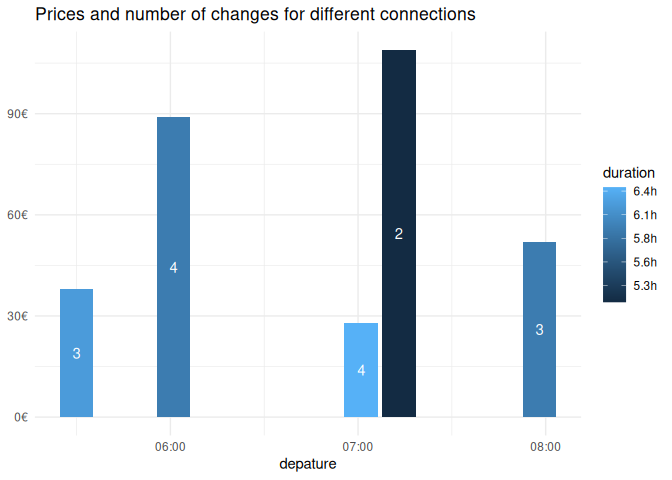
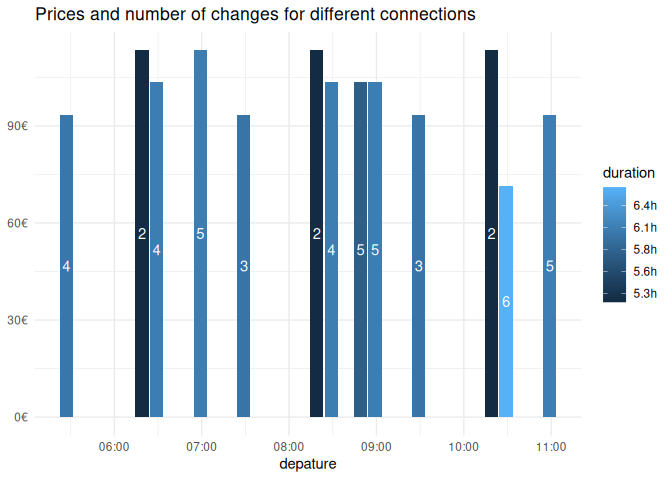
update vignette

diff --git a/README.md b/README.md
@@ -10,9 +10,13 @@ experimental](https://img.shields.io/badge/lifecycle-experimental-orange.svg)](h
 <!-- badges: end -->
 
 Just a small package that wraps the Fahrplan API of the German train
-company [db](https://www.bahn.de). The main idea is to be able to be
-able to cast your net a bit wider in cases when you are flexible to go
-on a different hour, day, or week.
+company [db](https://www.bahn.de). The main idea is to be able to cast
+your net a bit wider in cases when you are flexible to go on a different
+hour, day, or week.
+
+**Note: I do not have time to actively develop this package. It should
+be seen as a prototype. If you want to take it over as maintainer to
+develop it futher, let me know**
 
 ## Installation
 
@@ -38,33 +42,34 @@ Wiesbaden and Amsterdam:
 
 ``` r
 library(zugr)
-wi <- search_station("Wiesbaden")
+wi <- search_station("Wiesbaden, Manteuffelstr. 5")
 wi
 #> # A tibble: 10 × 2
-#>    name                   id                                                    
-#>    <chr>                  <chr>                                                 
-#>  1 Wiesbaden Hbf          A=1@O=Wiesbaden Hbf@X=8243729@Y=50070788@U=80@L=80002…
-#>  2 Wiesbaden-Mainz-Kast   A=1@O=Wiesbaden-Mainz-Kast@X=8283173@Y=50006578@U=80@…
-#>  3 Wiesbaden-Auringen-M   A=1@O=Wiesbaden-Auringen-M@X=8332092@Y=50113604@U=80@…
-#>  4 Wiesbaden-Erbenheim    A=1@O=Wiesbaden-Erbenheim@X=8295048@Y=50054410@U=80@L…
-#>  5 Wiesbaden Ost          A=1@O=Wiesbaden Ost@X=8256295@Y=50041411@U=80@L=80064…
-#>  6 Wiesbaden-Biebrich     A=1@O=Wiesbaden-Biebrich@X=8236420@Y=50048827@U=80@L=…
-#>  7 Wiesbaden-Igstadt      A=1@O=Wiesbaden-Igstadt@X=8325638@Y=50082582@U=80@L=8…
-#>  8 Wiesbaden-Schierstein  A=1@O=Wiesbaden-Schierstein@X=8194602@Y=50047587@U=80…
-#>  9 Wiesbaden-Chausseehaus A=1@O=Wiesbaden-Chausseehaus@X=8168794@Y=50097765@U=8…
-#> 10 Wiesbaden-Biebr. KD    A=1@O=Wiesbaden-Biebr. KD@X=8236600@Y=50036234@U=80@L…
+#>    name                                        id                               
+#>    <chr>                                       <chr>                            
+#>  1 Wiesbaden, Manteuffelstraße 5               A=2@O=Wiesbaden, Manteuffelstraß…
+#>  2 Wiesbaden, Scheffelstraße 5                 A=2@O=Wiesbaden, Scheffelstraße …
+#>  3 Wiesbaden - Delkenheim, Eifelstraße 5       A=2@O=Wiesbaden - Delkenheim, Ei…
+#>  4 Wiesbaden - Mainz-Kostheim, Teufelssprung 5 A=2@O=Wiesbaden - Mainz-Kostheim…
+#>  5 Wiesbaden, Reichsapfelstraße 5              A=2@O=Wiesbaden, Reichsapfelstra…
+#>  6 Wiesbaden, Teufelsgraben                    A=2@O=Wiesbaden, Teufelsgraben@X…
+#>  7 Wiesbaden, Scheffelstuben (Gastronomie)     A=4@O=Wiesbaden, Scheffelstuben …
+#>  8 Wiesbaden, Eifelstraße                      A=2@O=Wiesbaden, Eifelstraße@X=8…
+#>  9 Bad Kreuznach, Manteuffelstraße 4           A=2@O=Bad Kreuznach, Manteuffels…
+#> 10 Scheffelstraße, Wiesbaden                   A=1@O=Scheffelstraße, Wiesbaden@…
 ```
 
 The first one is what I need! Now Amsterdam. Here I don’t need as many
 options:
 
 ``` r
-adam <- search_station("Amsterdam", n_res = 1)
+adam <- search_station("Amsterdam", n_res = 2)
 adam
-#> # A tibble: 1 × 2
-#>   name                         id                                               
-#>   <chr>                        <chr>                                            
-#> 1 Amsterdam Airport (Schiphol) A=1@O=Amsterdam Airport (Schiphol)@X=4761487@Y=5…
+#> # A tibble: 2 × 2
+#>   name                       id                                                 
+#>   <chr>                      <chr>                                              
+#> 1 Amsterdam Centraal         A=1@O=Amsterdam Centraal@X=4899427@Y=52379191@U=80…
+#> 2 Amsterdam, Centaurusstraat A=2@O=Amsterdam, Centaurusstraat@X=4884163@Y=52414…
 ```
 
 Now I can make a search for next Tuesday Morning (as of writing this):
@@ -73,19 +78,24 @@ Now I can make a search for next Tuesday Morning (as of writing this):
 next_tuesday <- bahn_search(
   from = wi$id[1],
   to = adam$id[1],
-  start = "2023-10-03T05:00:00",
-  end =  "2023-10-03T19:00:00"
+  start = "2024-01-30T05:00:00",
+  end =  "2024-01-30T19:00:00"
 )
 next_tuesday
-#> # A tibble: 6 × 6
-#>   id         duration             price changes start              
-#>   <chr>      <Duration>           <dbl>   <int> <dttm>             
-#> 1 b88e588e_3 22440s (~6.23 hours)  37.9       3 2023-10-03 05:30:00
-#> 2 78b5d1d5_3 20760s (~5.77 hours)  NA         2 2023-10-03 06:13:00
-#> 3 ef00cd9f_3 21360s (~5.93 hours)  88.9       4 2023-10-03 06:01:00
-#> 4 f944674b_3 18300s (~5.08 hours) 109.        2 2023-10-03 07:13:00
-#> 5 65959c56_3 23160s (~6.43 hours)  27.9       4 2023-10-03 07:01:00
-#> 6 0893b3bf_3 21360s (~5.93 hours)  51.9       3 2023-10-03 07:58:00
+#> # A tibble: 28 × 6
+#>    id         duration             price changes start              
+#>    <chr>      <Duration>           <dbl>   <int> <dttm>             
+#>  1 4934becd_3 21720s (~6.03 hours)  93.4       4 2024-01-30 05:27:00
+#>  2 a2c0662a_3 18600s (~5.17 hours) 113.        2 2024-01-30 06:19:00
+#>  3 bfacedce_3 21960s (~6.1 hours)  103.        4 2024-01-30 06:29:00
+#>  4 6ee9a9d4_3 23760s (~6.6 hours)   67.4       5 2024-01-30 06:29:00
+#>  5 2fc08538_3 21960s (~6.1 hours)  113.        5 2024-01-30 06:59:00
+#>  6 86175a2c_3 21600s (~6 hours)     93.4       3 2024-01-30 07:29:00
+#>  7 a21cc91e_3 18600s (~5.17 hours) 113.        2 2024-01-30 08:19:00
+#>  8 e62269ec_3 21960s (~6.1 hours)  103.        4 2024-01-30 08:29:00
+#>  9 e7e3e886_3 23760s (~6.6 hours)   71.4       6 2024-01-30 08:29:00
+#> 10 5466ce48_3 20760s (~5.77 hours) 103.        5 2024-01-30 08:49:00
+#> # ℹ 18 more rows
 #> # ℹ 1 more variable: end <dttm>
 ```
 
@@ -101,13 +111,14 @@ library(tidyverse)
 next_tuesday |> 
   slice_min(price, n = 1) |> 
   select(-id)
-#> # A tibble: 1 × 5
-#>   duration             price changes start               end                
-#>   <Duration>           <dbl>   <int> <dttm>              <dttm>             
-#> 1 23160s (~6.43 hours)  27.9       4 2023-10-03 07:01:00 2023-10-03 13:14:00
+#> # A tibble: 2 × 5
+#>   duration            price changes start               end                
+#>   <Duration>          <dbl>   <int> <dttm>              <dttm>             
+#> 1 23760s (~6.6 hours)  67.4       5 2024-01-30 06:29:00 2024-01-30 13:05:00
+#> 2 23760s (~6.6 hours)  67.4       6 2024-01-30 12:29:00 2024-01-30 19:05:00
 ```
 
-With 4 connections and more than 6 hours, this is a rather terrible
+With 5 connections and more than 6 hours, this is a rather terrible
 connections. It is cheap though. Let’s see s quick visualisation
 instead:
 
@@ -115,7 +126,9 @@ instead:
 next_tuesday |> 
   # some connections include trains from different companies, the prices for
   # these are not oncluded
-  filter(!is.na(price)) |>
+  filter(!is.na(price),
+         !duplicated(start),
+         start < "2024-01-30 11:00:00") |>
   ggplot(aes(x = start, y = price, label = changes, fill = duration)) +
   geom_col() +
   geom_text(aes(y = price / 2), colour = "white") +
@@ -129,3 +142,72 @@ next_tuesday |>
 <img src="man/figures/README-unnamed-chunk-5-1.png" width="100%" />
 
 With more data, this gets a little more interesting.
+
+``` r
+february <- bahn_search(
+  from = wi$id[1],
+  to = adam$id[1],
+  start = "2024-02-01T00:00:00",
+  end =  "2024-03-01T23:59:59"
+)
+```
+
+Let’s see which days would be especially cheap:
+
+``` r
+february |> 
+  mutate(date = as.Date(start)) |> 
+  group_by(date) |> 
+  slice_min(price, n = 1) |> 
+  ggplot(aes(x = date, y = price)) +
+  geom_col() +
+  labs(x = NULL, y = NULL, 
+       title = "Cheapest price per day") +
+  scale_y_continuous(labels = function(x) paste0(x, "€")) +
+  theme_minimal()
+```
+
+<img src="man/figures/README-unnamed-chunk-8-1.png" width="100%" />
+
+This is all nice, but let’s only take into account connections I would
+actually consider:
+
+``` r
+february |> 
+  filter(changes <= 3) |> 
+  mutate(date = as.Date(start),
+         hour(start) > 5) |> 
+  group_by(date) |> 
+  slice_min(price, n = 1) |> 
+  ggplot(aes(x = date, y = price)) +
+  geom_col() +
+  labs(x = NULL, y = NULL, 
+       title = "Cheapest price per day with <= 3 changes") +
+  scale_y_continuous(labels = function(x) paste0(x, "€")) +
+  theme_minimal()
+```
+
+<img src="man/figures/README-unnamed-chunk-9-1.png" width="100%" />
+
+It also looks like historic searches are possible.
+
+``` r
+historic <- bahn_search(
+  from = wi$id[1],
+  to = adam$id[1],
+  start = "2024-01-22T05:00:00",
+  end =  "2024-01-22T19:00:00",
+  parse = FALSE
+)
+```
+
+I do not parse the results here to be able to explore the data a bit
+more (parsing only extracts the information that I found intresting on
+first glance). However, the results contain a message that the
+connection is in the past and information about price and demand seem
+absent.
+
+``` r
+historic[[1]][["verbindungen"]][[1]][["meldungenAsObject"]][[1]][["nachrichtLang"]]
+#> [1] "Die gewählte Verbindung liegt in der Vergangenheit"
+```
